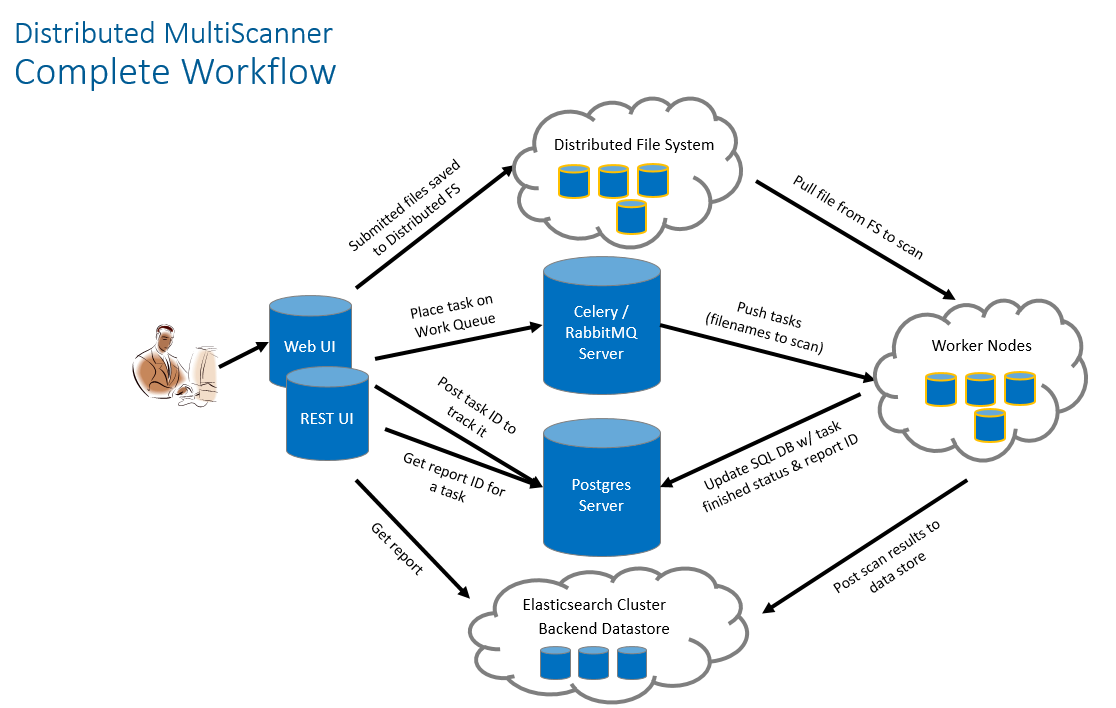
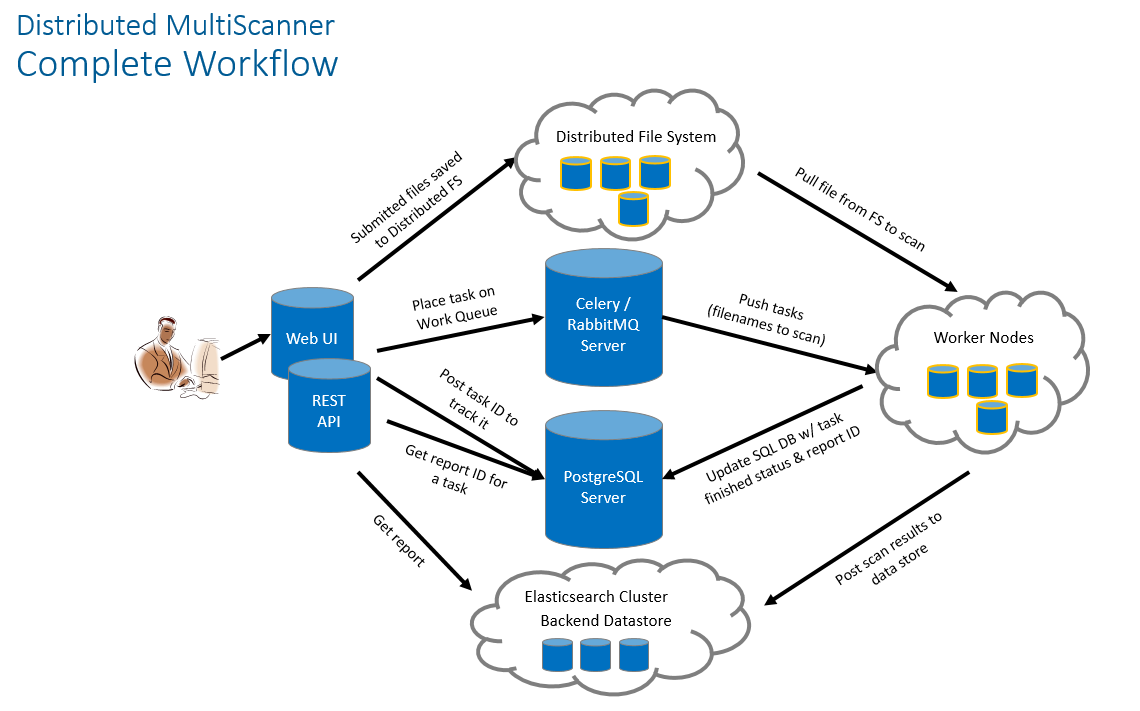
Update docs

Changed region(s): [[0.1219, 0.1243, 0.9749, 0.9944], [0.0, 0.0, 0.3047, 0.1243]]

diff --git a/docs/distributed_multiscanner.md b/docs/distributed_multiscanner.md
@@ -1,5 +1,5 @@
 # Distributed MultiScanner #
-MultiScanner now supports a distributed workflow for sample storage, analysis, and report viewing. This new addition includes a web interface, a REST API, a distributed file system (GlusterFS), distributed report storage / searching (ElasticSearch), and task management (Celery / RabbitMQ).
+MultiScanner now supports a distributed workflow for sample storage, analysis, and report viewing. This new functionality includes a web interface, a REST API, a distributed file system (GlusterFS), distributed report storage / searching (ElasticSearch), and task management (Celery / RabbitMQ).
 
 ## Intended Use case ##
 Distributed MultiScanner is intended to solve any combination of these problems / use cases:
@@ -10,42 +10,42 @@ Distributed MultiScanner is intended to solve any combination of these problems 
   * Note this does not include the following:
     * The scaling of external malware analysis tools such as Cuckoo
     * Does not perform auto-scaling (e.g. auto-provisioning of VM’s, etc)
-    * New nodes must be deployed manually and added to the Ansible playbook to receive the proper configurations
+      * New nodes must be deployed manually and added to the Ansible playbook to receive the proper configurations
 * Enable analytics on malware samples
   * Either by interacting with the ElasticSearch backend or plugging into the web / REST UI
-  * CTI integration / storage
+  * Cyber Threat Intelligence (CTI) integration / storage
 * Export CTI
-  * Intended to output reports in multiple formats: STIX, PDF, HTML, JSON, and text.
+  * Intended to output reports in multiple formats: STIX, MAEC, PDF, HTML, and JSON
   * Allows for export of raw JSON reports
   * Allows for export of MAEC 5.0 reports
   * Sharing malware analysis results
-  * Either within the framework’s UI itself or by exporting as JSON and sharing.
+  * Either within the framework’s UI itself or by exporting as JSON and sharing
 * Support file submission types:
   * Currently support all file formats (e.g. PE, PDF, Office, etc…)
-  * Currently doesn’t support extraction of files from PCAP / memory dumps / other data streams (but that is in the dev plan)
+  * Currently doesn’t support extraction of files from PCAP / memory dumps / other data streams (but this is in the dev plan)
 * Intended users:
-  * SOCs
+  * Security Operations Centers (SOCs)
   * Malware analysis centers
   * CTI sharing organizations
 
 ## Architecture ##
-This is what the current architecture looks like:
+This is the current architecture:
 
 ![alt text](https://raw.githubusercontent.com/awest1339/multiscanner/celery/docs/distributed_ms_diagram.PNG)
 
-When a sample is submitted (either via the web UI or the REST API), the sample is saved to the distributed file system (GlusterFS), a task is added to the distributed task queue (Celery), and an entry is added to the task management database (PostgreSQL). The worker nodes (Celery clients) all have the GlusterFS mounted, which gives them access to the samples for scanning. In our setup, we colocate the worker nodes with the GlusterFS nodes in order to reduce the network load of workers pulling samples from GlusterFS. When a new task is added to the Celery task queue, one of the worker nodes will pull the task and retrieve the corresponding sample from the GlusterFS via its SHA256 value. The worker node then performs the scanning work. For a full list of modules, look here: https://github.com/awest1339/multiscanner/blob/celery/docs/modules.md. Modules can be enabled / disabled via a configuration file. When the worker finishes its scans, it will generate a JSON blob and index that JSON into ElasticSearch for permanent storage / searching. It will then update the task management database with a status of "Complete". The user will then be able view the report via the web interface or retrieve the raw JSON.
+When a sample is submitted (either via the web UI or the REST API), the sample is saved to the distributed file system (GlusterFS), a task is added to the distributed task queue (Celery), and an entry is added to the task management database (PostgreSQL). The worker nodes (Celery clients) all have the GlusterFS mounted, which gives them access to the samples for scanning. In our setup, we colocate the worker nodes with the GlusterFS nodes in order to reduce the network load of workers pulling samples from GlusterFS. When a new task is added to the Celery task queue, one of the worker nodes will pull the task and retrieve the corresponding sample from the GlusterFS via its SHA256 value. The worker node then performs the scanning work. For a full list of modules, look [here](https://github.com/awest1339/multiscanner/blob/celery/docs/modules.md). Modules can be enabled / disabled via a configuration file. This configuration file is distributed to the workers by Ansible at setup time (details on this process later). When the worker finishes its scans, it will generate a JSON blob and index it into ElasticSearch for permanent storage. It will then update the task management database with a status of "Complete". The user will then be able view the report via the web interface or retrieve the raw JSON.
 
 ## Setup ##
-Currently, we deploy this system with Ansible. More information about that process can be found here: https://github.com/mitre/multiscanner-ansible. We are also currently working on supporting deploying the distributed architecture via Docker. If you wish to get an idea of how the system works without having to go through the full process of setting up the distributed architecture, look into our docker containers for a standalone system: https://github.com/awest1339/multiscanner/blob/celery/docs/docker_standalone.md. Obviously, the standalone system will be far less scalable / robust / feature rich. However, it will stand up the web UI, the REST API, and an ElasticSearch node for you to see how the system works.
+Currently, we deploy this system with Ansible. More information about that process can be found [here](https://github.com/mitre/multiscanner-ansible). We are also currently working on supporting deploying the distributed architecture via Docker. If you wish to get an idea of how the system works without having to go through the full process of setting up the distributed architecture, look into our docker containers for a standalone [system](https://github.com/awest1339/multiscanner/blob/celery/docs/docker_standalone.md). Obviously, the standalone system will be far less scalable / robust / feature rich. However, it will stand up the web UI, the REST API, and an ElasticSearch node for you to see how the system works. The standalone container is intended as an introduction to the system and its capabilities, but not designed for use in production.
 
 ## Architecture Details ##
 What follows is a brief discussion of the tools and design choices we made in the creation of this system.
 
 ### Web Frontend ###
-The web application is written in Flask, using vanilla JavaScript and jQuery. It is essentially a aesthetic wrapper around the REST API, all data and services are provided by querying the REST API.
+The web application is written in Flask, using vanilla JavaScript and jQuery, and served via Apache. It is essentially a aesthetic wrapper around the REST API, all data and services are provided by querying the REST API.
 
 ### REST API ###
-The REST API is also written in Flask. It has an underlying PostgreSQL database in order to facilitate task tracking. Additionally, it acts as a gateway to the backend ElasticSearch document store. 
+The REST API is also written in Flask and served via Apache. It has an underlying PostgreSQL database in order to facilitate task tracking. Additionally, it acts as a gateway to the backend ElasticSearch document store. Searches entered into the web UI will be routed through the REST API and passed to the ElasticSearch cluster. This abstracts the complexity of querying ElasticSearch and gives the user a simple web interface to work with.
 
 ### Task Queue ###
 We use Celery as our distributed task queue. 
@@ -54,10 +54,10 @@ We use Celery as our distributed task queue.
 PostgreSQL is our task management database. It is here that we keep track of scan times, samples, and the status of tasks (pending, complete, failed, etc...).
 
 ### Distributed File System ###
-GlusterFS is our selection for our distributed file system. Each componenet that needs access to the raw samples mounts the share. We selected GlusterFS because it is much more performant in our use case of storing a large number of small samples than a technology like HDFS is.
+GlusterFS is our distributed file system. Each component that needs access to the raw samples mounts the share via FUSE. We selected GlusterFS because it is much more performant in our use case of storing a large number of small samples than a technology like HDFS would be.
 
 ### Worker Nodes ###
-The worker nodes are simply Celery clients running the MultiScanner python application. Addtionally, we implemented some batching within Celery to improve the performance of our worker nodes (which operate better at scale).
+The worker nodes are simply Celery clients running the MultiScanner python application. Addtionally, we implemented some batching within Celery to improve the performance of our worker nodes (which operate better at scale). Worker nodes will wait until there are 100 samples in its queue or 60 seconds have passed (whichever happens first) before kicking off its scan. These figures are configurable.OB
 
 ### Report Storage ###
 We use ElasticSearch to store the results of our file scans. This is where the true power of this system comes in. ElasticSearch allows for performant, full text searching across all our reports and modules. This allows for fast access to interesting details from your malware analysis tools, pivoting between samples, and powerful analytics on report output.
